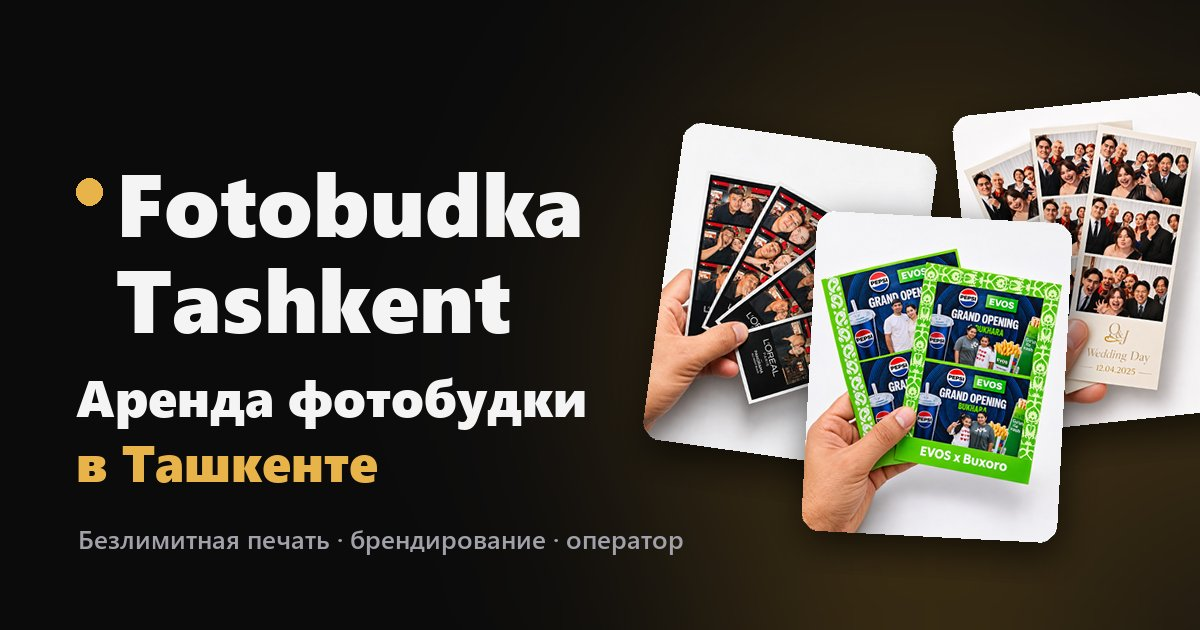
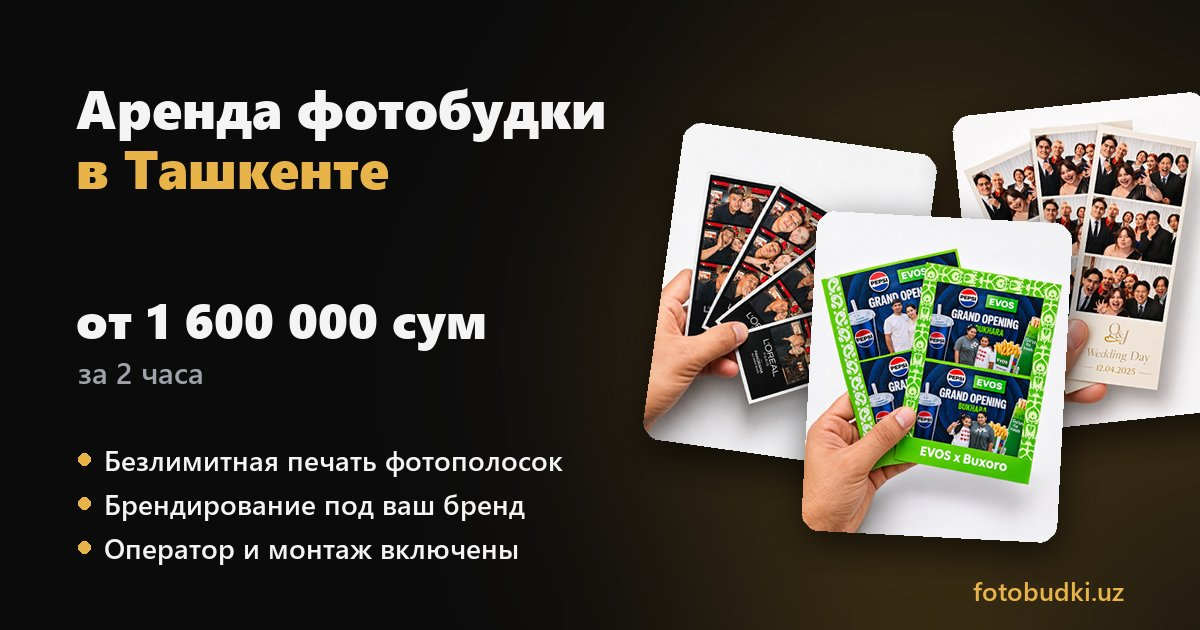
Новое превью ссылки, выезд по Узбекистану

diff --git a/public/index.html b/public/index.html
@@ -8,20 +8,20 @@
      Если поменяется название Fotobudka Tashkent или адрес сайта - правьте здесь
      (и константу BRAND_NAME в начале script.js).
      ============================================================ -->
-<title>Fotobudka Tashkent - аренда фотобудки в Ташкенте</title>
-<meta name="description" content="Аренда фотобудки в Ташкенте: безлимитная печать фотополосок, брендирование корпуса и рамки под ваш бренд, оператор, монтаж. Свадьбы, дни рождения, корпоративы, выпускные. От 2 часов.">
+<title>Аренда фотобудки в Ташкенте | fotobudki.uz</title>
+<meta name="description" content="Аренда фотобудки в Ташкенте: безлимитная печать фотополосок, брендирование корпуса и рамки под ваш бренд, оператор, монтаж. Свадьбы, дни рождения, корпоративы, выпускные. От 2 часов. Выезжаем во все регионы Узбекистана.">
 <meta name="theme-color" content="#0B0B0C">
 <link rel="canonical" href="https://fotobudki.uz/">
 <meta property="og:type" content="website">
-<meta property="og:site_name" content="Fotobudka Tashkent">
+<meta property="og:site_name" content="fotobudki.uz">
 <meta property="og:locale" content="ru_RU">
-<meta property="og:title" content="Fotobudka Tashkent - аренда фотобудки в Ташкенте">
-<meta property="og:description" content="Гости делают снимки и через секунды держат в руках готовую фотополоску. Брендирование под вашу компанию, безлимитная печать.">
+<meta property="og:title" content="Аренда фотобудки в Ташкенте">
+<meta property="og:description" content="Безлимитная печать фотополосок, брендирование под вашу компанию, оператор и монтаж включены. Свадьбы, дни рождения, корпоративы. От 1 600 000 сум за 2 часа - рассчитайте на сайте.">
 <meta property="og:url" content="https://fotobudki.uz/">
-<meta property="og:image" content="https://fotobudki.uz/og-image.jpg">
+<meta property="og:image" content="https://fotobudki.uz/og-image.jpg?v=2">
 <meta property="og:image:width" content="1200">
 <meta property="og:image:height" content="630">
-<meta property="og:image:alt" content="Fotobudka Tashkent - аренда фотобудки в Ташкенте">
+<meta property="og:image:alt" content="Аренда фотобудки в Ташкенте - от 1 600 000 сум за 2 часа">
 <meta name="twitter:card" content="summary_large_image">
 <link rel="icon" href="favicon.svg" type="image/svg+xml">
 <link rel="icon" href="favicon-32.png" sizes="32x32" type="image/png">
@@ -33,12 +33,12 @@
   "name": "Fotobudka Tashkent",
   "description": "Аренда фотобудки в Ташкенте: безлимитная печать, брендирование под ваш бренд, оператор на мероприятии.",
   "url": "https://fotobudki.uz/",
-  "image": "https://fotobudki.uz/og-image.jpg",
+  "image": "https://fotobudki.uz/og-image.jpg?v=2",
   "telephone": "+998974332211",
   "priceRange": "от 1 600 000 сум",
   "currenciesAccepted": "UZS",
   "address": { "@type": "PostalAddress", "addressLocality": "Ташкент", "addressCountry": "UZ" },
-  "areaServed": { "@type": "City", "name": "Ташкент" },
+  "areaServed": [{ "@type": "City", "name": "Ташкент" }, { "@type": "Country", "name": "Узбекистан" }],
   "sameAs": ["https://t.me/A7i77", "https://www.instagram.com/fotobudka_tashkent"],
   "contactPoint": { "@type": "ContactPoint", "telephone": "+998974332211", "contactType": "customer service", "availableLanguage": ["ru", "uz"] }
 }
@@ -81,7 +81,7 @@
 <!-- ===================== ПЕРВЫЙ ЭКРАН ===================== -->
 <section id="top" class="hero wrap">
   <div class="hero__text">
-    <p class="eyebrow">Фотобудка в аренду - Ташкент</p>
+    <p class="eyebrow">Фотобудка в аренду - Ташкент и регионы Узбекистана</p>
     <h1 class="hero__title">Лови<br>момент.</h1>
     <p class="hero__lead">Гости делают снимки и через секунды держат в руках готовую фотополоску. Свадьбы, дни рождения, корпоративы, выпускные и промо-мероприятия.</p>
     <div class="btn-row">
